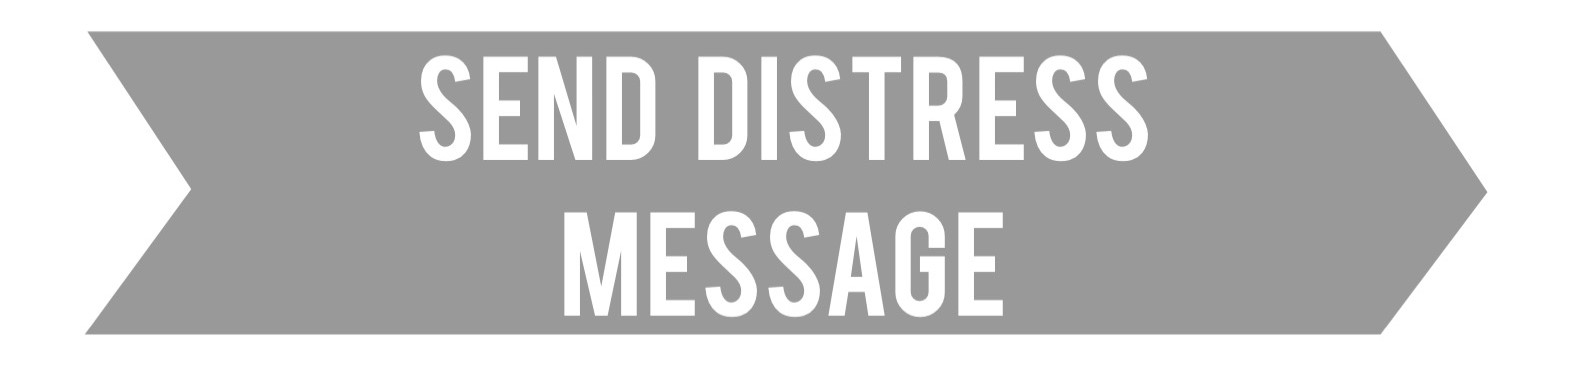
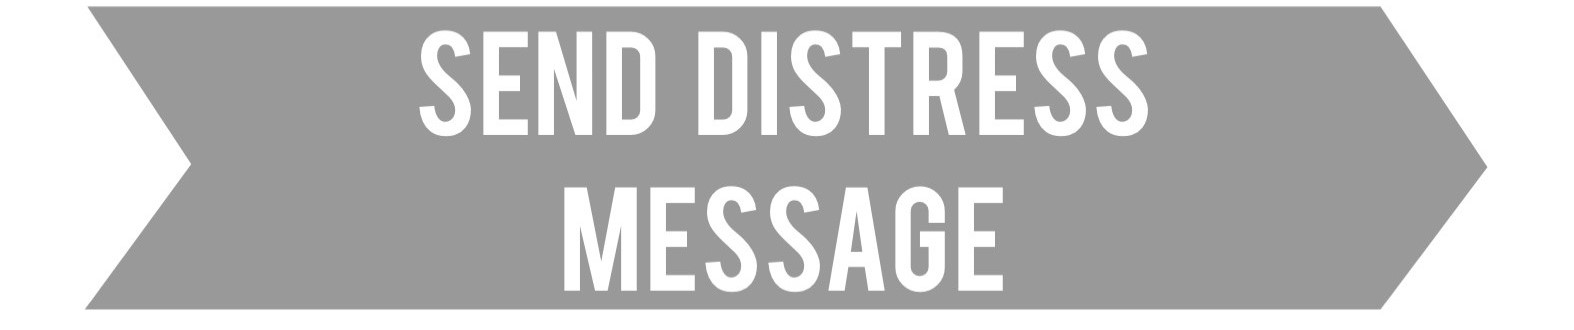
emergency

diff --git a/emergency_btn.html b/emergency_btn.html
@@ -1,24 +1,20 @@
 <!DOCTYPE html>
-<html lang="en">
+<html>
     <head>
-        <title>jQuery Mobile GeoLocation demo</title>
+        <title>Emergency</title>
         <meta name="viewport" content="width=device-width, initial-scale=1">
-
-        <link rel="stylesheet" href="http://code.jquery.com/mobile/1.1.1/jquery.mobile-1.1.1.min.css" />
-
-        <script src="http://code.jquery.com/jquery-1.7.1.min.js"></script>
-
-        <script src="http://code.jquery.com/mobile/1.1.1/jquery.mobile-1.1.1.min.js"></script>
+        <link rel="stylesheet" href="http://code.jquery.com/mobile/1.4.5/jquery.mobile-1.4.5.min.css">
+        <link rel="stylesheet" href="css/themes/jquery.mobile.icons.min.css" />
         
+        <script src="http://code.jquery.com/jquery-1.11.3.min.js"></script>     
+        <script src="http://code.jquery.com/mobile/1.4.5/jquery.mobile-1.4.5.min.js"></script>
         <script src="emergency_btn.js"></script>
-        <link rel ="stylesheet" href="style.css">
-
         
-
+        <link rel ="stylesheet" href="style.css">
     </head>
 <body>
 
-
+  <div data-role="page">
     <div data-role="header">
     <div class="img_responsive">
         <img src="emergencyb.jpeg"  width="600" height="300" />
@@ -31,9 +27,9 @@
     <div data-role="content">  
     
           <div data-role="main" class="ui-content">
-            <a href="sms://+15033097152?body=I%27m%20in%20danger%20.%20Please%20send%20help." class="ui-btn">Send a distress message to your Emergency Contact</a>
+            <a href="sms://+15033097152?body=I%27m%20in%20danger%20.%20Please%20send%20help." class="ui-btn"><img src="message.jpeg"></a>
           </div>
     </div>
-
+</div>
 </body>
 </html>
